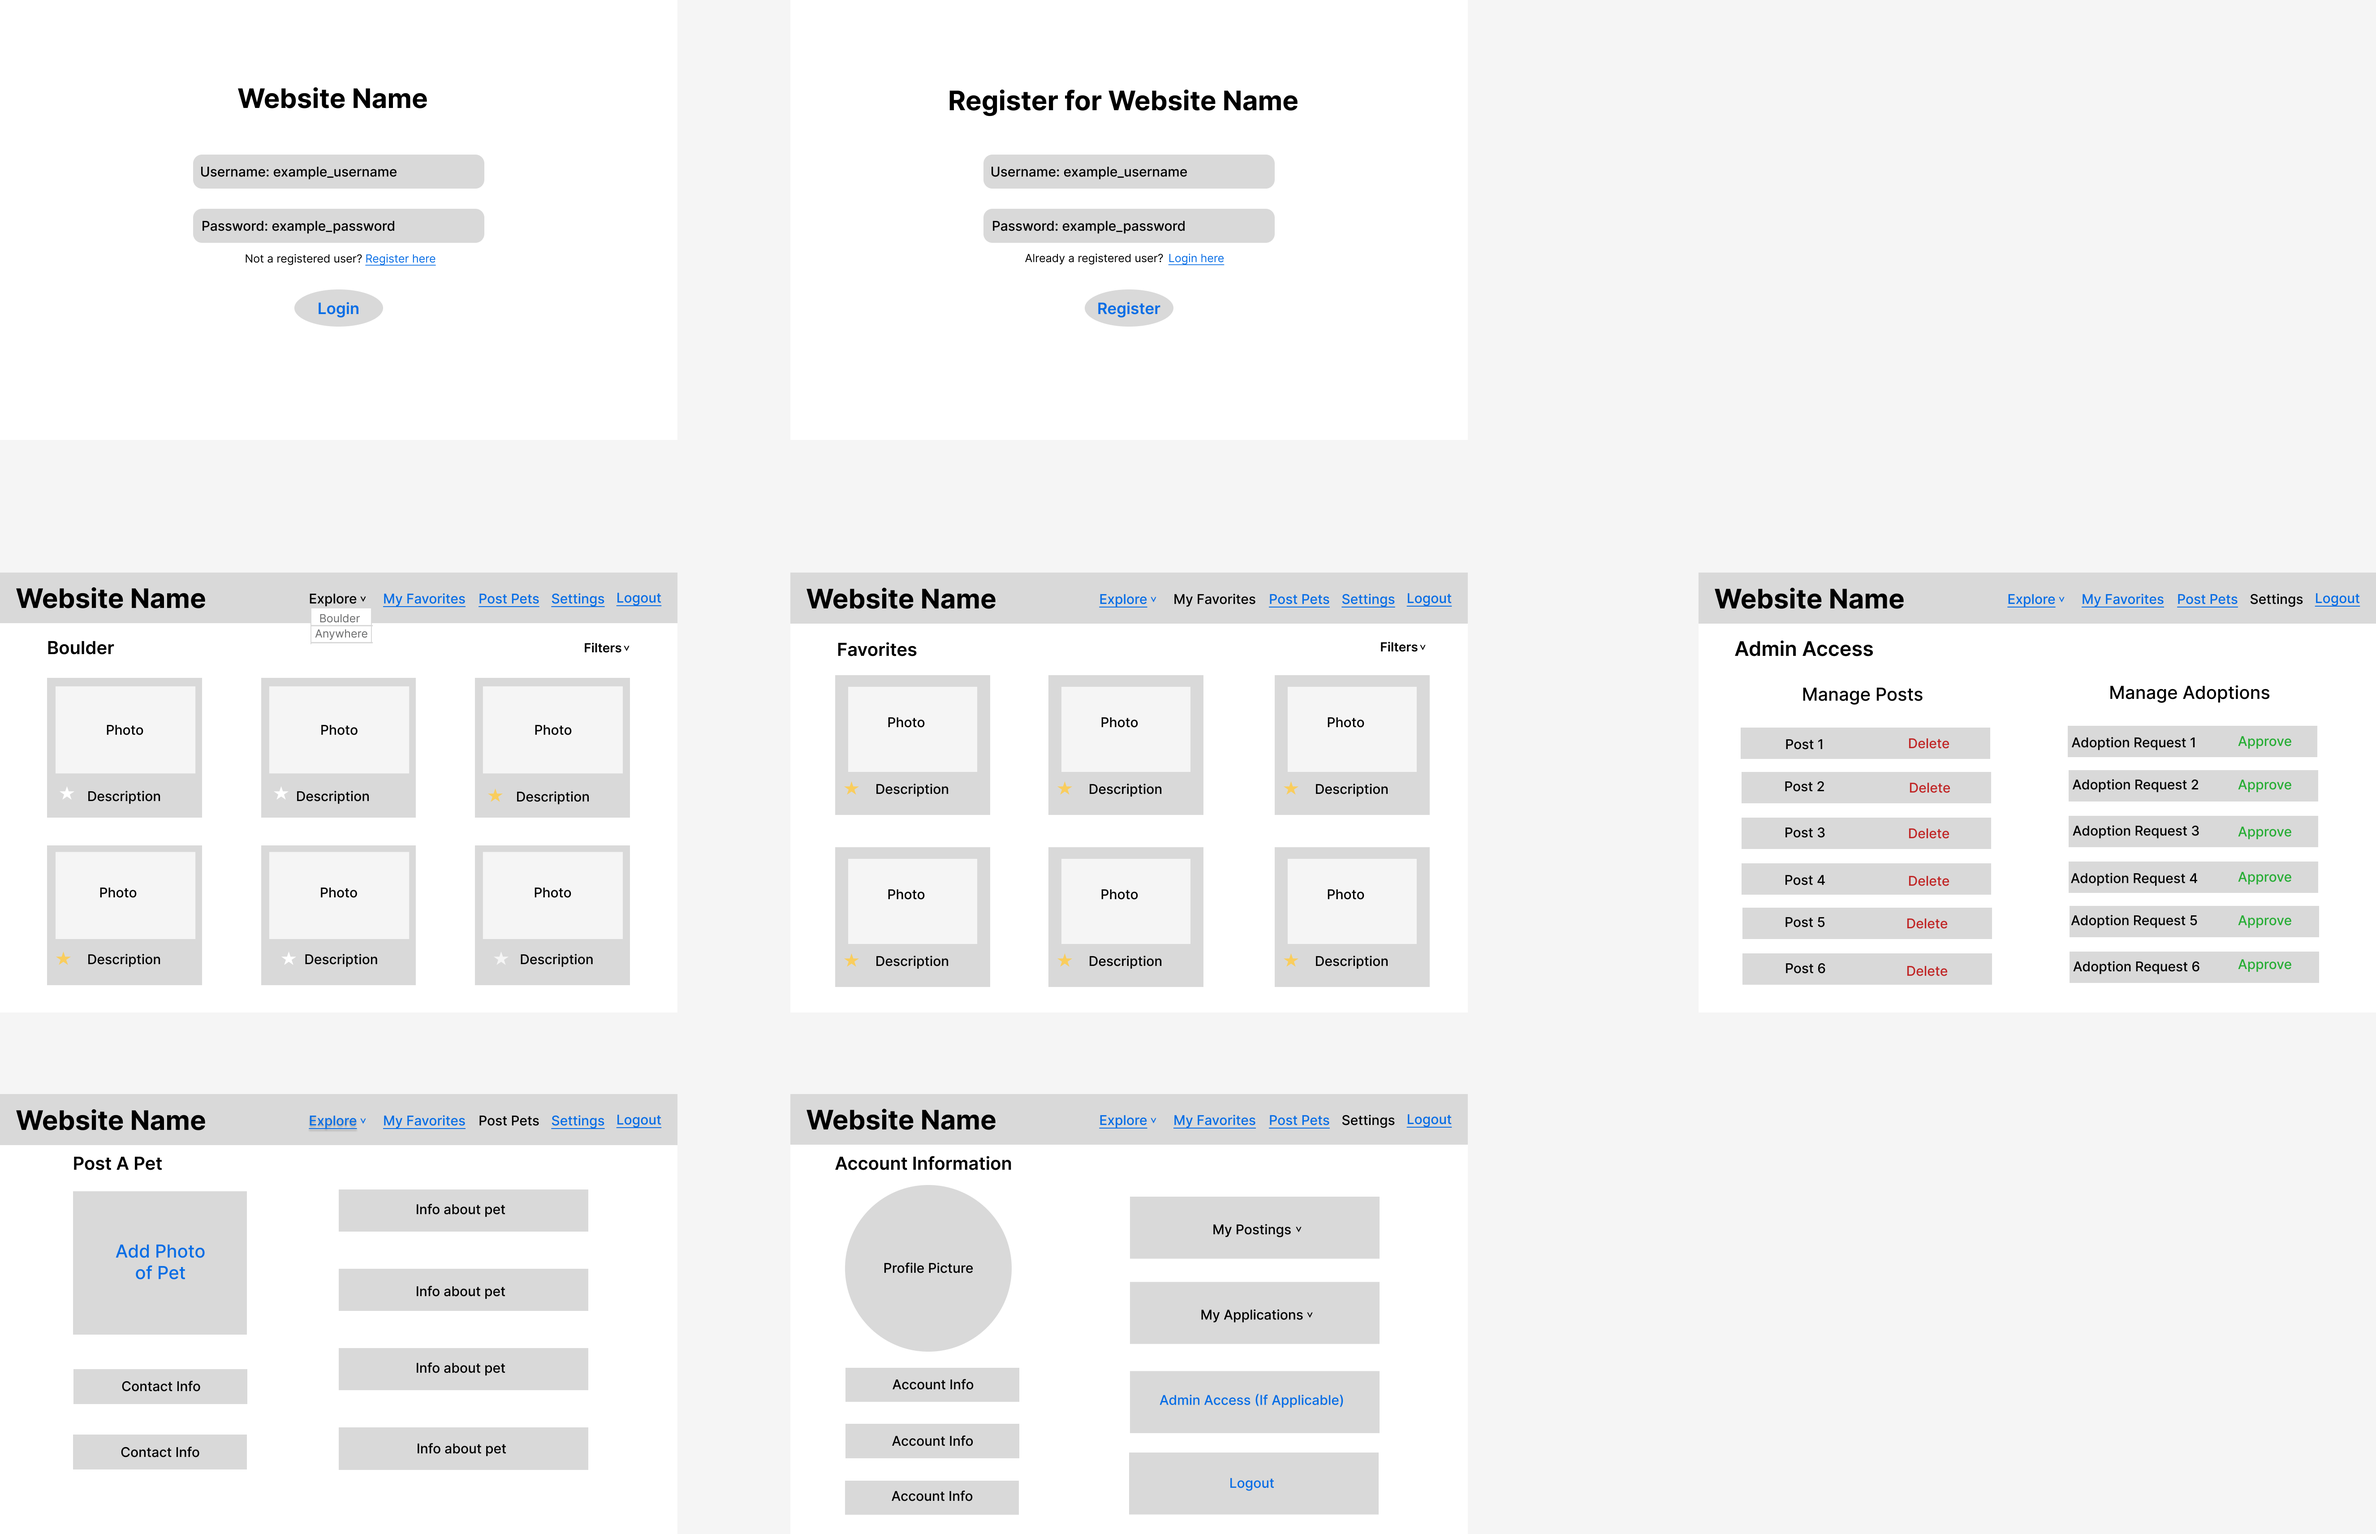
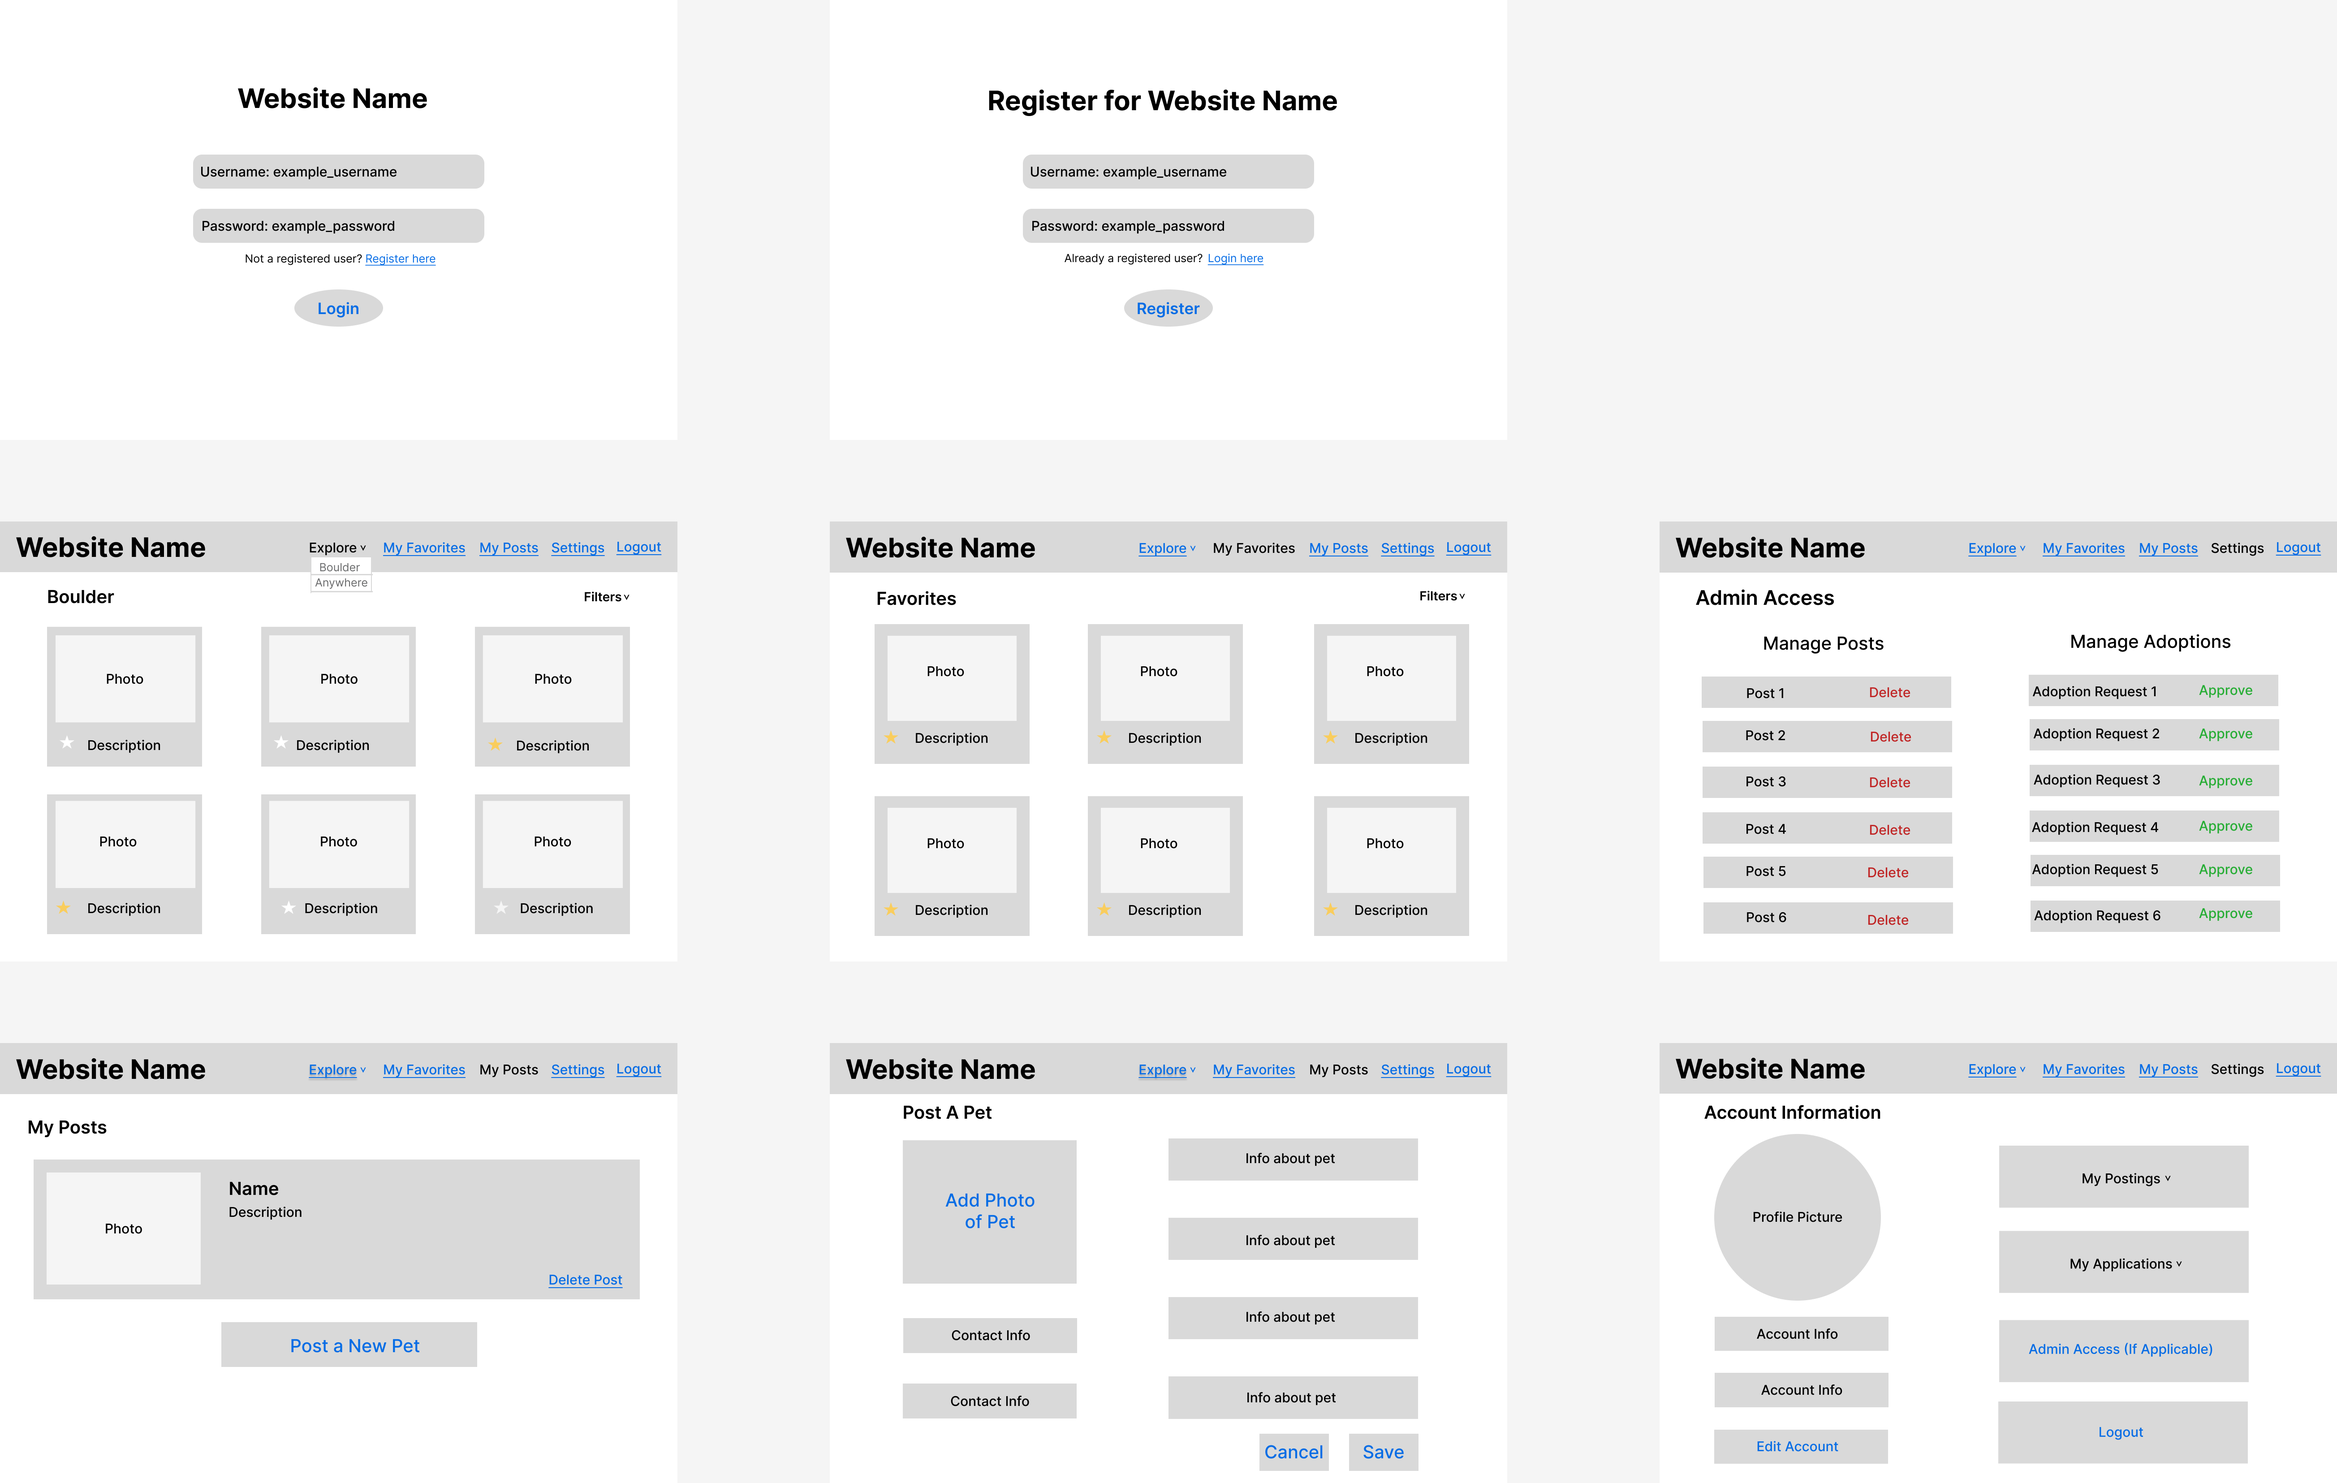
Updated readme, updated wireframe to capture all needed pages

diff --git a/README.md b/README.md
@@ -1,53 +1,18 @@
-# Final_project_3308_team_1
-final project by team 1 for CSCI 3308
+# Team 1  
 
-Team Number - 1.
+## Application Description  
+Our application will allow people to search for pets and place adoption applications. The website will have a search menu with filters, such as Cat/Dog, breed, color, etc. This will allow users to narrow down their search to find their desired pet. Users will be able to favorite animals they are interested in adoptin and can view them from their profile. The website will have a log in function, that will allow a user to store all of their information that would be needed for an application. This way, users can place an adoption application without filling out a form with their information. The aplication is stored in a database. They can see which applications they have submitted. Users can also post animals for adoption.  
+ 
+## Contributors:   
+Vince Frazzini, Lucy Profeta, Matthew Simpson, Yash Singh, Andrew Wang,  
+Lindy Zhang  
 
-Team Name - 
+## Tech Stack:  
 
-Team Members -
+## Prerequisites to Run:  
 
-Yash Singh
+## Running the Application Locally:  
 
-Andrew Wang
+## Running Tests:  
 
-Vince Frazzini
-
-Lindy Zhang 
-
-Lucy Profeta
-
-Application Name - 
-
-Pet adoption Center 
-
-Application - 
-Have a open platform to show clients different pets they can addopt.
-
-filters - 
-breed,
-age,
-location,
-size, 
-gender,
-color,
-
-put a pet up for adoption
-
-Application Description:
-  Our application will allow people to search for pets and place adoption applications. The website will have a search menu with filters, such as Cat/Dog, breed, color, etc. This will allow users to narrow down their search to find their desired pet. Users will be able to favorite animals they are interested in adoptin and can view them from their profile.
-  The website will have a log in function, that will allow a user to store all of their information that would be needed for an application. This way, users can place an adoption application without filling out a form with their information. The aplication is stored in a database. They can see which applications they have submitted. Users can also post animals for adoption.
-
-For animal lovers who want to find a new best friend. ___NAME____ is a website that allows people to search for animals, submit adoption applications, and post pets for adoption. Unlike petfinder, our website allows users to post pet adoption profiles. 
-
-Development Strategy - Agile meet every week we talk about stuff we did and are stuck with.
-
-Communication plan - Comunicate over discord and text
-
-Meeting Plain - Meet every tuesday for an hour before the meeting with our TA.
-
-
-Case Diagram - [Pet.pdf](https://github.com/Yasi5914/Final_project_3308_team_1/files/13245826/Pet.pdf)
-
-Wireframes
-
+## Link to Deployed Application:  
